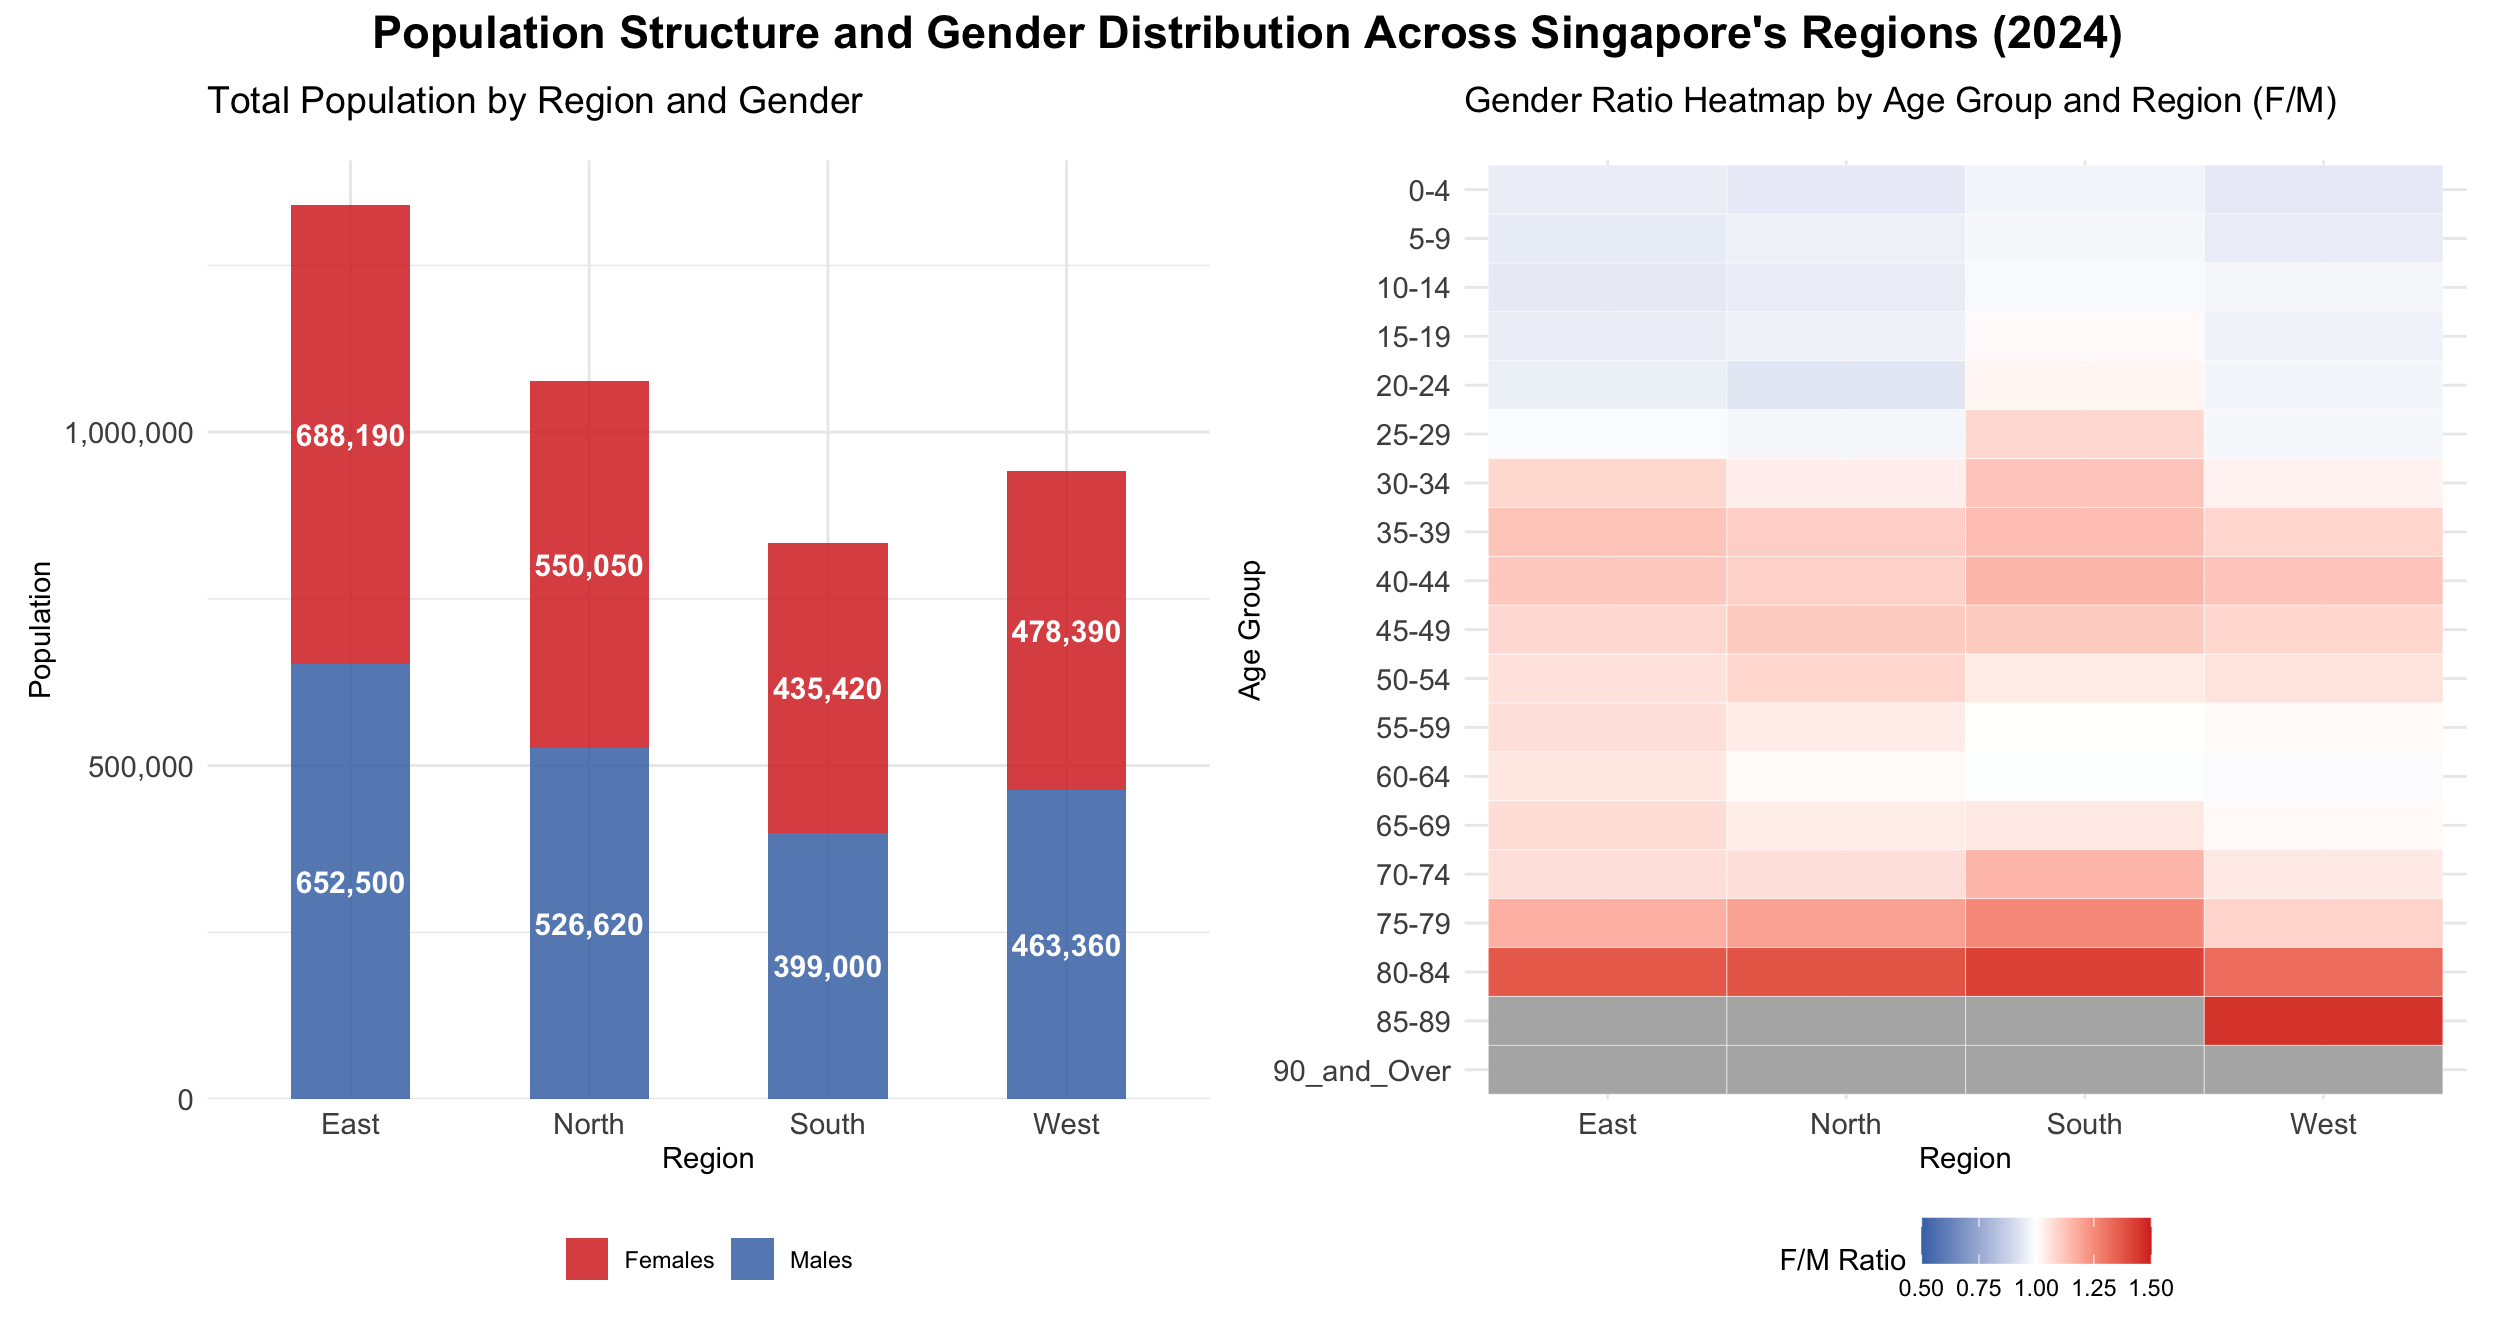
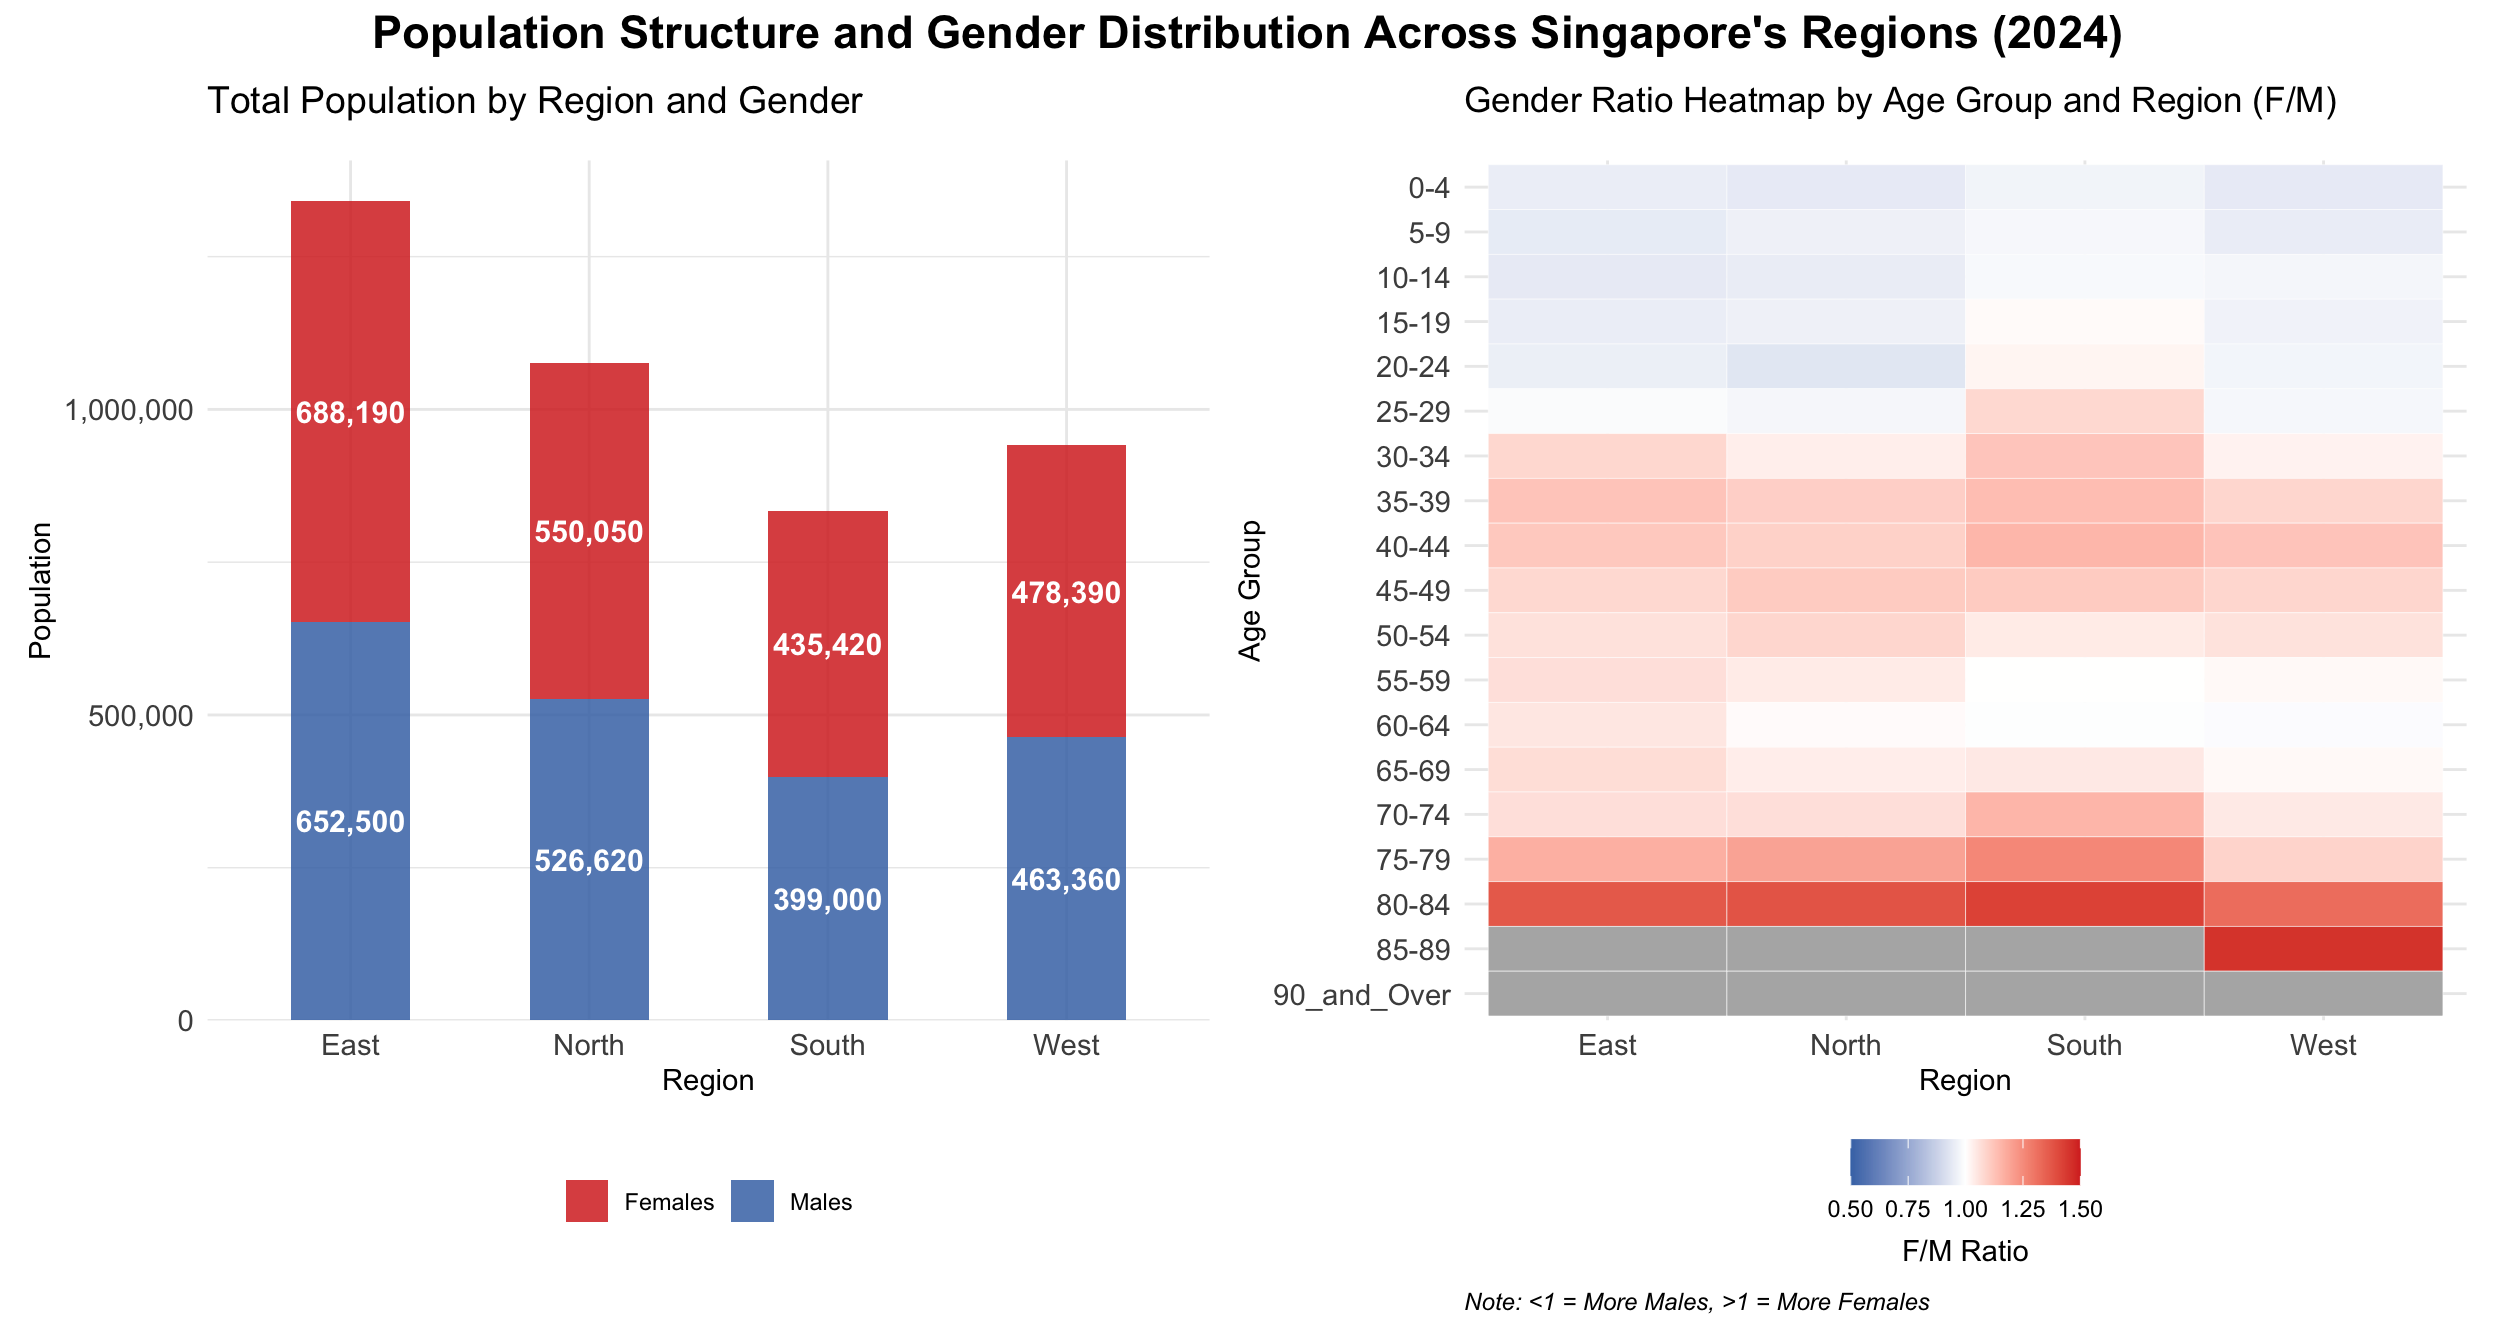
commit th1.5

diff --git a/_site/Take-home_Exercise/Take-home_Ex01/Take-home_Ex01.html b/_site/Take-home_Exercise/Take-home_Ex01/Take-home_Ex01.html
@@ -1114,22 +1114,24 @@ The dataset is expanded using <code>uncount()</code> to generate one row per ind
 <span id="cb25-4"><a href="#cb25-4" aria-hidden="true" tabindex="-1"></a>  <span class="fu">scale_fill_gradient2</span>(</span>
 <span id="cb25-5"><a href="#cb25-5" aria-hidden="true" tabindex="-1"></a>    <span class="at">low =</span> <span class="st">"#4575b4"</span>, <span class="at">mid =</span> <span class="st">"white"</span>, <span class="at">high =</span> <span class="st">"#d73027"</span>, <span class="at">midpoint =</span> <span class="dv">1</span>,</span>
 <span id="cb25-6"><a href="#cb25-6" aria-hidden="true" tabindex="-1"></a>    <span class="at">name =</span> <span class="st">"F/M Ratio"</span>,</span>
-<span id="cb25-7"><a href="#cb25-7" aria-hidden="true" tabindex="-1"></a>    <span class="at">limits =</span> <span class="fu">c</span>(<span class="fl">0.5</span>, <span class="fl">1.5</span>),</span>
-<span id="cb25-8"><a href="#cb25-8" aria-hidden="true" tabindex="-1"></a>    <span class="at">na.value =</span> <span class="st">"grey70"</span></span>
-<span id="cb25-9"><a href="#cb25-9" aria-hidden="true" tabindex="-1"></a>  ) <span class="sc">+</span></span>
-<span id="cb25-10"><a href="#cb25-10" aria-hidden="true" tabindex="-1"></a>  <span class="fu">labs</span>(</span>
-<span id="cb25-11"><a href="#cb25-11" aria-hidden="true" tabindex="-1"></a>    <span class="at">title =</span> <span class="st">"Gender Ratio Heatmap by Age Group and Region (F/M)"</span>,</span>
-<span id="cb25-12"><a href="#cb25-12" aria-hidden="true" tabindex="-1"></a>    <span class="at">x =</span> <span class="st">"Region"</span>,</span>
-<span id="cb25-13"><a href="#cb25-13" aria-hidden="true" tabindex="-1"></a>    <span class="at">y =</span> <span class="st">"Age Group"</span></span>
-<span id="cb25-14"><a href="#cb25-14" aria-hidden="true" tabindex="-1"></a>  ) <span class="sc">+</span></span>
-<span id="cb25-15"><a href="#cb25-15" aria-hidden="true" tabindex="-1"></a>  <span class="fu">theme_minimal</span>() <span class="sc">+</span></span>
-<span id="cb25-16"><a href="#cb25-16" aria-hidden="true" tabindex="-1"></a>  <span class="fu">theme</span>(</span>
-<span id="cb25-17"><a href="#cb25-17" aria-hidden="true" tabindex="-1"></a>    <span class="at">plot.title =</span> <span class="fu">element_text</span>(<span class="at">hjust =</span> <span class="dv">0</span>, <span class="at">face =</span> <span class="st">"plain"</span>),</span>
-<span id="cb25-18"><a href="#cb25-18" aria-hidden="true" tabindex="-1"></a>    <span class="at">axis.title =</span> <span class="fu">element_text</span>(<span class="at">face =</span> <span class="st">"plain"</span>),</span>
-<span id="cb25-19"><a href="#cb25-19" aria-hidden="true" tabindex="-1"></a>    <span class="at">axis.text =</span> <span class="fu">element_text</span>(<span class="at">size =</span> <span class="dv">11</span>),</span>
-<span id="cb25-20"><a href="#cb25-20" aria-hidden="true" tabindex="-1"></a>    <span class="at">legend.title =</span> <span class="fu">element_text</span>(<span class="at">face =</span> <span class="st">"plain"</span>),</span>
-<span id="cb25-21"><a href="#cb25-21" aria-hidden="true" tabindex="-1"></a>    <span class="at">legend.position =</span> <span class="st">"bottom"</span></span>
-<span id="cb25-22"><a href="#cb25-22" aria-hidden="true" tabindex="-1"></a>  )</span></code><button title="Copy to Clipboard" class="code-copy-button"><i class="bi"></i></button></pre></div>
+<span id="cb25-7"><a href="#cb25-7" aria-hidden="true" tabindex="-1"></a>    <span class="at">guide =</span> <span class="fu">guide_colorbar</span>(<span class="at">title.position =</span> <span class="st">"bottom"</span>, <span class="at">title.hjust =</span> <span class="fl">0.5</span>),</span>
+<span id="cb25-8"><a href="#cb25-8" aria-hidden="true" tabindex="-1"></a>    <span class="at">limits =</span> <span class="fu">c</span>(<span class="fl">0.5</span>, <span class="fl">1.5</span>),</span>
+<span id="cb25-9"><a href="#cb25-9" aria-hidden="true" tabindex="-1"></a>    <span class="at">na.value =</span> <span class="st">"grey70"</span></span>
+<span id="cb25-10"><a href="#cb25-10" aria-hidden="true" tabindex="-1"></a>  ) <span class="sc">+</span></span>
+<span id="cb25-11"><a href="#cb25-11" aria-hidden="true" tabindex="-1"></a>  <span class="fu">labs</span>(</span>
+<span id="cb25-12"><a href="#cb25-12" aria-hidden="true" tabindex="-1"></a>    <span class="at">title =</span> <span class="st">"Gender Ratio Heatmap by Age Group and Region (F/M)"</span>,</span>
+<span id="cb25-13"><a href="#cb25-13" aria-hidden="true" tabindex="-1"></a>    <span class="at">x =</span> <span class="st">"Region"</span>,</span>
+<span id="cb25-14"><a href="#cb25-14" aria-hidden="true" tabindex="-1"></a>    <span class="at">y =</span> <span class="st">"Age Group"</span>,<span class="at">caption =</span> <span class="st">"Note: &lt;1 = More Males, &gt;1 = More Females"</span></span>
+<span id="cb25-15"><a href="#cb25-15" aria-hidden="true" tabindex="-1"></a>  ) <span class="sc">+</span></span>
+<span id="cb25-16"><a href="#cb25-16" aria-hidden="true" tabindex="-1"></a>  <span class="fu">theme_minimal</span>() <span class="sc">+</span></span>
+<span id="cb25-17"><a href="#cb25-17" aria-hidden="true" tabindex="-1"></a>  <span class="fu">theme</span>(</span>
+<span id="cb25-18"><a href="#cb25-18" aria-hidden="true" tabindex="-1"></a>    <span class="at">plot.title =</span> <span class="fu">element_text</span>(<span class="at">hjust =</span> <span class="dv">0</span>, <span class="at">face =</span> <span class="st">"plain"</span>),</span>
+<span id="cb25-19"><a href="#cb25-19" aria-hidden="true" tabindex="-1"></a>    <span class="at">axis.title =</span> <span class="fu">element_text</span>(<span class="at">face =</span> <span class="st">"plain"</span>),</span>
+<span id="cb25-20"><a href="#cb25-20" aria-hidden="true" tabindex="-1"></a>    <span class="at">axis.text =</span> <span class="fu">element_text</span>(<span class="at">size =</span> <span class="dv">11</span>),</span>
+<span id="cb25-21"><a href="#cb25-21" aria-hidden="true" tabindex="-1"></a>    <span class="at">legend.title =</span> <span class="fu">element_text</span>(<span class="at">face =</span> <span class="st">"plain"</span>),</span>
+<span id="cb25-22"><a href="#cb25-22" aria-hidden="true" tabindex="-1"></a>    <span class="at">legend.position =</span> <span class="st">"bottom"</span>,</span>
+<span id="cb25-23"><a href="#cb25-23" aria-hidden="true" tabindex="-1"></a>    <span class="at">plot.caption =</span> <span class="fu">element_text</span>(<span class="at">hjust =</span> <span class="dv">0</span>, <span class="at">size =</span> <span class="dv">9</span>, <span class="at">face =</span> <span class="st">"italic"</span>, <span class="at">color =</span> <span class="st">"black"</span>)</span>
+<span id="cb25-24"><a href="#cb25-24" aria-hidden="true" tabindex="-1"></a>  )</span></code><button title="Copy to Clipboard" class="code-copy-button"><i class="bi"></i></button></pre></div>
 </details>
 </div>
 </section>
